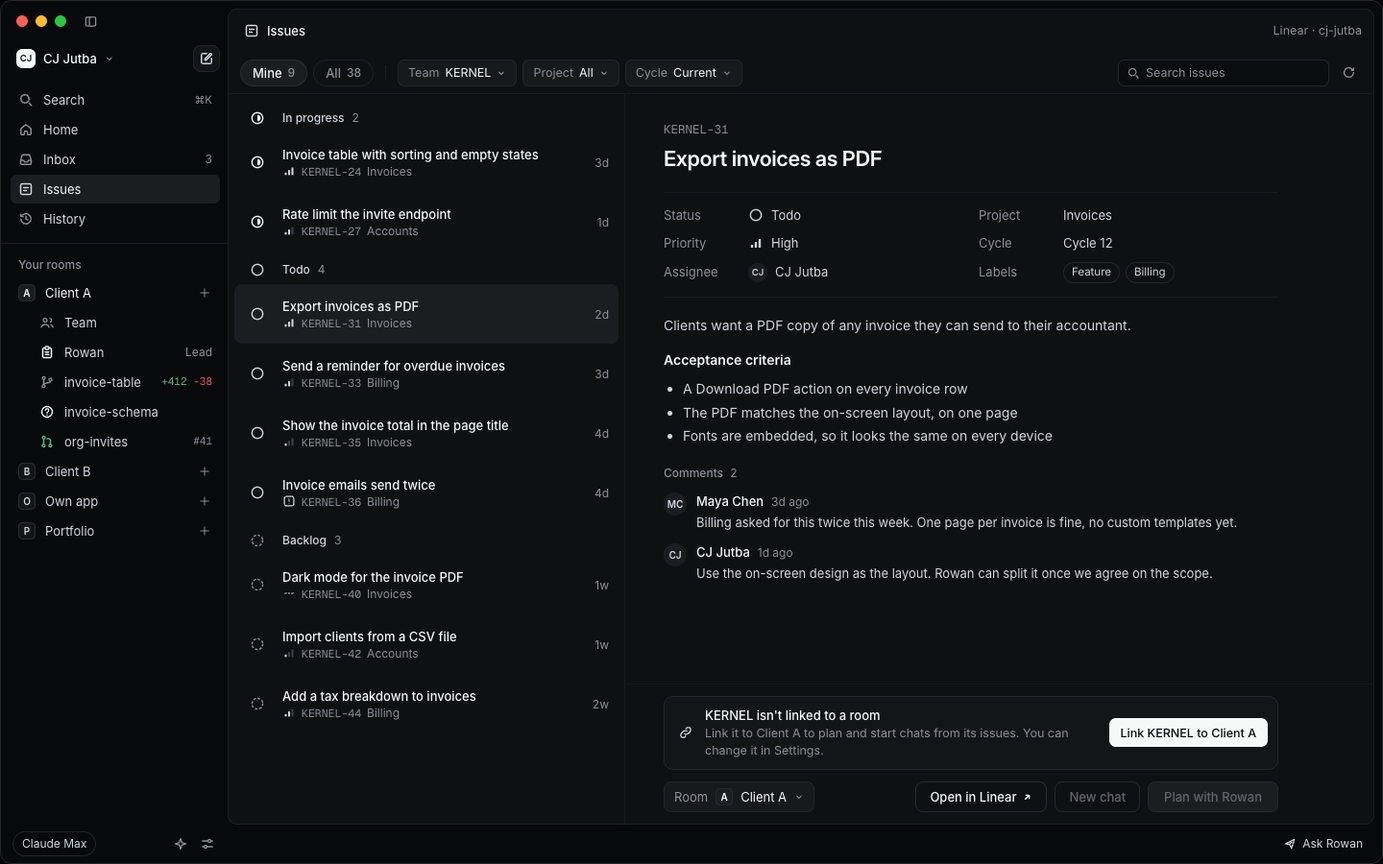
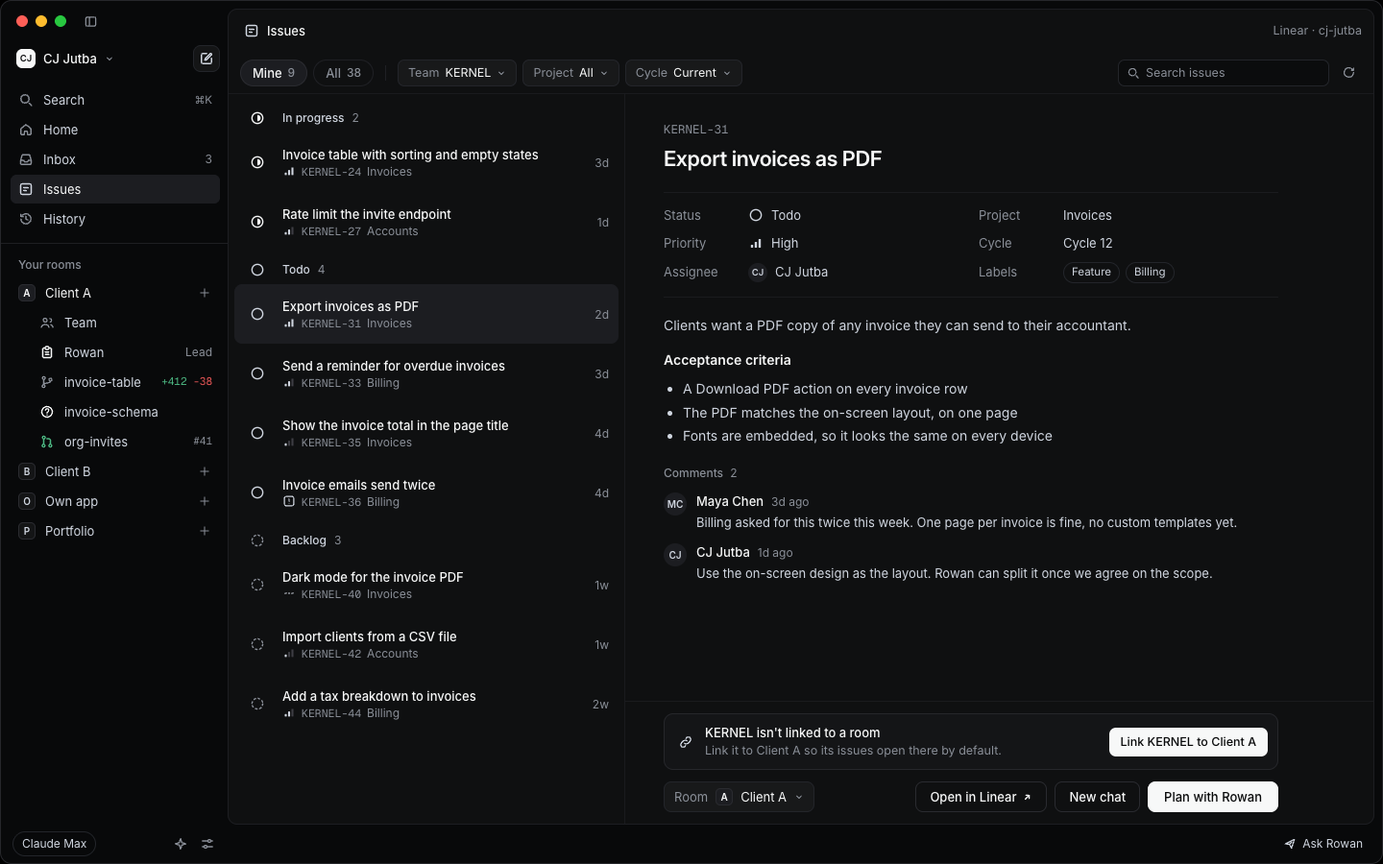
fix(design): keep Done and Canceled out of the issue list, keep New chat and Plan enabled without a linked room (KERNEL-162)
The list only holds open issues, so IssuesWorking no longer draws Done and Canceled groups.
Linking a team only sets the default room, so IssuesNoRoom leaves both buttons enabled.

Changed region(s): [[0.7812, 0.8089, 0.9375, 0.9644], [0.4688, 0.8089, 0.75, 0.8711]]

diff --git a/design/canvas/project/Issues.dc.html b/design/canvas/project/Issues.dc.html
@@ -253,7 +253,7 @@ CJ Jutba
 <sc-if value="{{ noroom }}" hint-placeholder-val="{{ false }}">
 <div role="status" style="display: flex; align-items: center; gap: 12px; padding: 10px 10px 10px 14px; border-radius: 10px; border: 1px solid #26272b; background: #141517">
 <svg width="16" height="16" viewBox="0 0 16 16" aria-hidden="true" fill="none" stroke="#d0d6e0" stroke-width="1.4" stroke-linecap="round" stroke-linejoin="round" style="flex-shrink: 0"><path d="M6.8 9.2a2.6 2.6 0 0 0 3.7 0l2-2a2.6 2.6 0 0 0-3.7-3.7l-.7.7M9.2 6.8a2.6 2.6 0 0 0-3.7 0l-2 2a2.6 2.6 0 0 0 3.7 3.7l.7-.7"></path></svg>
-<span style="flex: 1; min-width: 0; display: flex; flex-direction: column"><span style="font-weight: 500">KERNEL isn't linked to a room</span><span style="font-size: 12.5px; color: #8a8f98">Link it to Client A to plan and start chats from its issues. You can change it in Settings.</span></span>
+<span style="flex: 1; min-width: 0; display: flex; flex-direction: column"><span style="font-weight: 500">KERNEL isn't linked to a room</span><span style="font-size: 12.5px; color: #8a8f98">Link it to Client A so its issues open there by default.</span></span>
 <button type="button" style="flex-shrink: 0; height: 30px; padding: 0 12px; border: 0; border-radius: 7px; background: #f7f8f8; color: #08090a; font-family: inherit; font-size: 12.5px; font-weight: 500; cursor: pointer">Link KERNEL to Client A</button>
 </div>
 </sc-if>
@@ -261,8 +261,8 @@ CJ Jutba
 <button type="button" aria-label="Room: Client A" style="display: inline-flex; align-items: center; gap: 8px; height: 32px; box-sizing: border-box; padding: 0 10px; border: 1px solid #23252a; border-radius: 8px; background: #18191a; color: #f7f8f8; font-family: inherit; font-size: 13px; cursor: pointer"><span style="color: #8a8f98">Room</span><span aria-hidden="true" style="width: 18px; height: 18px; box-sizing: border-box; display: inline-flex; align-items: center; justify-content: center; border-radius: 5px; border: 1px solid #2a2b30; background: #1c1d21; font-size: 10px; font-weight: 600">A</span>Client A<svg width="10" height="10" viewBox="0 0 10 10" aria-hidden="true" fill="none" stroke="#8a8f98" stroke-width="1.4" stroke-linecap="round" stroke-linejoin="round"><path d="M2.5 4 5 6.5 7.5 4"></path></svg></button>
 <span style="flex: 1"></span>
 <a href="https://linear.app/cj-jutba/issue/KERNEL-31" target="_blank" rel="noreferrer" style="display: inline-flex; align-items: center; gap: 6px; height: 32px; box-sizing: border-box; padding: 0 14px; border-radius: 8px; border: 1px solid #2a2b30; color: #f7f8f8; text-decoration: none; font-size: 13px; font-weight: 500">Open in Linear<svg width="11" height="11" viewBox="0 0 16 16" aria-hidden="true" fill="none" stroke="currentColor" stroke-width="1.8" stroke-linecap="round" stroke-linejoin="round"><path d="M5 11 11 5M6 5h5v5"></path></svg></a>
-<button type="button" aria-disabled="{{ noroom }}" style="height: 32px; padding: 0 14px; border: 1px solid {{ btn.border }}; border-radius: 8px; background: transparent; color: {{ btn.color }}; font-family: inherit; font-size: 13px; font-weight: 500; cursor: pointer">New chat</button>
-<button type="button" aria-disabled="{{ noroom }}" style="height: 32px; padding: 0 16px; border: 1px solid {{ btn.pBorder }}; border-radius: 8px; background: {{ btn.pBg }}; color: {{ btn.pColor }}; font-family: inherit; font-size: 13px; font-weight: 500; cursor: pointer">Plan with Rowan</button>
+<button type="button" style="height: 32px; padding: 0 14px; border: 1px solid #2a2b30; border-radius: 8px; background: transparent; color: #f7f8f8; font-family: inherit; font-size: 13px; font-weight: 500; cursor: pointer">New chat</button>
+<button type="button" style="height: 32px; padding: 0 16px; border: 1px solid #f7f8f8; border-radius: 8px; background: #f7f8f8; color: #08090a; font-family: inherit; font-size: 13px; font-weight: 500; cursor: pointer">Plan with Rowan</button>
 </div>
 </div>
 </div>
@@ -327,9 +327,7 @@ class Component extends DCLogic {
         group('triage', [row('KERNEL-46', 'Clients cannot reset their password', 'Accounts', 'triage', 'high', '3h', false)]),
         group('started', [row('KERNEL-24', 'Invoice table with sorting and empty states', 'Invoices', 'started', 'high', 'Kai · PR open', sel === 'KERNEL-24', true), row('KERNEL-27', 'Rate limit the invite endpoint', 'Accounts', 'started', 'medium', 'Noor · Working', false, true)]),
         group('todo', [row('KERNEL-31', 'Export invoices as PDF', 'Invoices', 'todo', 'high', '2d', false), row('KERNEL-36', 'Invoice emails send twice', 'Billing', 'todo', 'urgent', '4d', false)]),
-        group('backlog', [row('KERNEL-40', 'Dark mode for the invoice PDF', 'Invoices', 'backlog', 'none', '1w', false)]),
-        group('done', [row('KERNEL-19', 'Seed demo clients and invoices', 'Invoices', 'done', 'low', '2d', false)]),
-        group('canceled', [row('KERNEL-21', 'Support tax IDs on invoices', 'Billing', 'canceled', 'low', '1w', false)])
+        group('backlog', [row('KERNEL-40', 'Dark mode for the invoice PDF', 'Invoices', 'backlog', 'none', '1w', false)])
       ];
     } else {
       groups = [
@@ -374,7 +372,6 @@ class Component extends DCLogic {
       var on = t.pressed === 'true';
       return { label: t.label, count: t.count, pressed: t.pressed, bg: on ? '#1c1d21' : 'transparent', border: on ? '#2a2b30' : '#1f2024', color: on ? '#f7f8f8' : '#8a8f98' };
     });
-    var disabled = mode === 'noroom';
     return {
       connected: mode !== 'connect',
       showFilters: mode !== 'connect' && mode !== 'error',
@@ -383,11 +380,7 @@ class Component extends DCLogic {
       tabs: tabs,
       filters: [{ label: 'Team', value: 'KERNEL' }, { label: 'Project', value: mode === 'empty' ? 'Billing' : 'All' }, { label: 'Cycle', value: 'Current' }],
       q: mode === 'empty' ? 'webhook' : '',
-      groups: groups, d: D[sel], linked: linked,
-      btn: {
-        border: disabled ? '#26272b' : '#2a2b30', color: disabled ? '#62666d' : '#f7f8f8',
-        pBorder: disabled ? '#26272b' : '#f7f8f8', pBg: disabled ? '#1c1d21' : '#f7f8f8', pColor: disabled ? '#62666d' : '#08090a'
-      }
+      groups: groups, d: D[sel], linked: linked
     };
   }
 }

diff --git a/design/canvas/project/IssuesConnect.dc.html b/design/canvas/project/IssuesConnect.dc.html
@@ -253,7 +253,7 @@ CJ Jutba
 <sc-if value="{{ noroom }}" hint-placeholder-val="{{ false }}">
 <div role="status" style="display: flex; align-items: center; gap: 12px; padding: 10px 10px 10px 14px; border-radius: 10px; border: 1px solid #26272b; background: #141517">
 <svg width="16" height="16" viewBox="0 0 16 16" aria-hidden="true" fill="none" stroke="#d0d6e0" stroke-width="1.4" stroke-linecap="round" stroke-linejoin="round" style="flex-shrink: 0"><path d="M6.8 9.2a2.6 2.6 0 0 0 3.7 0l2-2a2.6 2.6 0 0 0-3.7-3.7l-.7.7M9.2 6.8a2.6 2.6 0 0 0-3.7 0l-2 2a2.6 2.6 0 0 0 3.7 3.7l.7-.7"></path></svg>
-<span style="flex: 1; min-width: 0; display: flex; flex-direction: column"><span style="font-weight: 500">KERNEL isn't linked to a room</span><span style="font-size: 12.5px; color: #8a8f98">Link it to Client A to plan and start chats from its issues. You can change it in Settings.</span></span>
+<span style="flex: 1; min-width: 0; display: flex; flex-direction: column"><span style="font-weight: 500">KERNEL isn't linked to a room</span><span style="font-size: 12.5px; color: #8a8f98">Link it to Client A so its issues open there by default.</span></span>
 <button type="button" style="flex-shrink: 0; height: 30px; padding: 0 12px; border: 0; border-radius: 7px; background: #f7f8f8; color: #08090a; font-family: inherit; font-size: 12.5px; font-weight: 500; cursor: pointer">Link KERNEL to Client A</button>
 </div>
 </sc-if>
@@ -261,8 +261,8 @@ CJ Jutba
 <button type="button" aria-label="Room: Client A" style="display: inline-flex; align-items: center; gap: 8px; height: 32px; box-sizing: border-box; padding: 0 10px; border: 1px solid #23252a; border-radius: 8px; background: #18191a; color: #f7f8f8; font-family: inherit; font-size: 13px; cursor: pointer"><span style="color: #8a8f98">Room</span><span aria-hidden="true" style="width: 18px; height: 18px; box-sizing: border-box; display: inline-flex; align-items: center; justify-content: center; border-radius: 5px; border: 1px solid #2a2b30; background: #1c1d21; font-size: 10px; font-weight: 600">A</span>Client A<svg width="10" height="10" viewBox="0 0 10 10" aria-hidden="true" fill="none" stroke="#8a8f98" stroke-width="1.4" stroke-linecap="round" stroke-linejoin="round"><path d="M2.5 4 5 6.5 7.5 4"></path></svg></button>
 <span style="flex: 1"></span>
 <a href="https://linear.app/cj-jutba/issue/KERNEL-31" target="_blank" rel="noreferrer" style="display: inline-flex; align-items: center; gap: 6px; height: 32px; box-sizing: border-box; padding: 0 14px; border-radius: 8px; border: 1px solid #2a2b30; color: #f7f8f8; text-decoration: none; font-size: 13px; font-weight: 500">Open in Linear<svg width="11" height="11" viewBox="0 0 16 16" aria-hidden="true" fill="none" stroke="currentColor" stroke-width="1.8" stroke-linecap="round" stroke-linejoin="round"><path d="M5 11 11 5M6 5h5v5"></path></svg></a>
-<button type="button" aria-disabled="{{ noroom }}" style="height: 32px; padding: 0 14px; border: 1px solid {{ btn.border }}; border-radius: 8px; background: transparent; color: {{ btn.color }}; font-family: inherit; font-size: 13px; font-weight: 500; cursor: pointer">New chat</button>
-<button type="button" aria-disabled="{{ noroom }}" style="height: 32px; padding: 0 16px; border: 1px solid {{ btn.pBorder }}; border-radius: 8px; background: {{ btn.pBg }}; color: {{ btn.pColor }}; font-family: inherit; font-size: 13px; font-weight: 500; cursor: pointer">Plan with Rowan</button>
+<button type="button" style="height: 32px; padding: 0 14px; border: 1px solid #2a2b30; border-radius: 8px; background: transparent; color: #f7f8f8; font-family: inherit; font-size: 13px; font-weight: 500; cursor: pointer">New chat</button>
+<button type="button" style="height: 32px; padding: 0 16px; border: 1px solid #f7f8f8; border-radius: 8px; background: #f7f8f8; color: #08090a; font-family: inherit; font-size: 13px; font-weight: 500; cursor: pointer">Plan with Rowan</button>
 </div>
 </div>
 </div>
@@ -327,9 +327,7 @@ class Component extends DCLogic {
         group('triage', [row('KERNEL-46', 'Clients cannot reset their password', 'Accounts', 'triage', 'high', '3h', false)]),
         group('started', [row('KERNEL-24', 'Invoice table with sorting and empty states', 'Invoices', 'started', 'high', 'Kai · PR open', sel === 'KERNEL-24', true), row('KERNEL-27', 'Rate limit the invite endpoint', 'Accounts', 'started', 'medium', 'Noor · Working', false, true)]),
         group('todo', [row('KERNEL-31', 'Export invoices as PDF', 'Invoices', 'todo', 'high', '2d', false), row('KERNEL-36', 'Invoice emails send twice', 'Billing', 'todo', 'urgent', '4d', false)]),
-        group('backlog', [row('KERNEL-40', 'Dark mode for the invoice PDF', 'Invoices', 'backlog', 'none', '1w', false)]),
-        group('done', [row('KERNEL-19', 'Seed demo clients and invoices', 'Invoices', 'done', 'low', '2d', false)]),
-        group('canceled', [row('KERNEL-21', 'Support tax IDs on invoices', 'Billing', 'canceled', 'low', '1w', false)])
+        group('backlog', [row('KERNEL-40', 'Dark mode for the invoice PDF', 'Invoices', 'backlog', 'none', '1w', false)])
       ];
     } else {
       groups = [
@@ -374,7 +372,6 @@ class Component extends DCLogic {
       var on = t.pressed === 'true';
       return { label: t.label, count: t.count, pressed: t.pressed, bg: on ? '#1c1d21' : 'transparent', border: on ? '#2a2b30' : '#1f2024', color: on ? '#f7f8f8' : '#8a8f98' };
     });
-    var disabled = mode === 'noroom';
     return {
       connected: mode !== 'connect',
       showFilters: mode !== 'connect' && mode !== 'error',
@@ -383,11 +380,7 @@ class Component extends DCLogic {
       tabs: tabs,
       filters: [{ label: 'Team', value: 'KERNEL' }, { label: 'Project', value: mode === 'empty' ? 'Billing' : 'All' }, { label: 'Cycle', value: 'Current' }],
       q: mode === 'empty' ? 'webhook' : '',
-      groups: groups, d: D[sel], linked: linked,
-      btn: {
-        border: disabled ? '#26272b' : '#2a2b30', color: disabled ? '#62666d' : '#f7f8f8',
-        pBorder: disabled ? '#26272b' : '#f7f8f8', pBg: disabled ? '#1c1d21' : '#f7f8f8', pColor: disabled ? '#62666d' : '#08090a'
-      }
+      groups: groups, d: D[sel], linked: linked
     };
   }
 }

diff --git a/design/canvas/project/IssuesEmpty.dc.html b/design/canvas/project/IssuesEmpty.dc.html
@@ -253,7 +253,7 @@ CJ Jutba
 <sc-if value="{{ noroom }}" hint-placeholder-val="{{ false }}">
 <div role="status" style="display: flex; align-items: center; gap: 12px; padding: 10px 10px 10px 14px; border-radius: 10px; border: 1px solid #26272b; background: #141517">
 <svg width="16" height="16" viewBox="0 0 16 16" aria-hidden="true" fill="none" stroke="#d0d6e0" stroke-width="1.4" stroke-linecap="round" stroke-linejoin="round" style="flex-shrink: 0"><path d="M6.8 9.2a2.6 2.6 0 0 0 3.7 0l2-2a2.6 2.6 0 0 0-3.7-3.7l-.7.7M9.2 6.8a2.6 2.6 0 0 0-3.7 0l-2 2a2.6 2.6 0 0 0 3.7 3.7l.7-.7"></path></svg>
-<span style="flex: 1; min-width: 0; display: flex; flex-direction: column"><span style="font-weight: 500">KERNEL isn't linked to a room</span><span style="font-size: 12.5px; color: #8a8f98">Link it to Client A to plan and start chats from its issues. You can change it in Settings.</span></span>
+<span style="flex: 1; min-width: 0; display: flex; flex-direction: column"><span style="font-weight: 500">KERNEL isn't linked to a room</span><span style="font-size: 12.5px; color: #8a8f98">Link it to Client A so its issues open there by default.</span></span>
 <button type="button" style="flex-shrink: 0; height: 30px; padding: 0 12px; border: 0; border-radius: 7px; background: #f7f8f8; color: #08090a; font-family: inherit; font-size: 12.5px; font-weight: 500; cursor: pointer">Link KERNEL to Client A</button>
 </div>
 </sc-if>
@@ -261,8 +261,8 @@ CJ Jutba
 <button type="button" aria-label="Room: Client A" style="display: inline-flex; align-items: center; gap: 8px; height: 32px; box-sizing: border-box; padding: 0 10px; border: 1px solid #23252a; border-radius: 8px; background: #18191a; color: #f7f8f8; font-family: inherit; font-size: 13px; cursor: pointer"><span style="color: #8a8f98">Room</span><span aria-hidden="true" style="width: 18px; height: 18px; box-sizing: border-box; display: inline-flex; align-items: center; justify-content: center; border-radius: 5px; border: 1px solid #2a2b30; background: #1c1d21; font-size: 10px; font-weight: 600">A</span>Client A<svg width="10" height="10" viewBox="0 0 10 10" aria-hidden="true" fill="none" stroke="#8a8f98" stroke-width="1.4" stroke-linecap="round" stroke-linejoin="round"><path d="M2.5 4 5 6.5 7.5 4"></path></svg></button>
 <span style="flex: 1"></span>
 <a href="https://linear.app/cj-jutba/issue/KERNEL-31" target="_blank" rel="noreferrer" style="display: inline-flex; align-items: center; gap: 6px; height: 32px; box-sizing: border-box; padding: 0 14px; border-radius: 8px; border: 1px solid #2a2b30; color: #f7f8f8; text-decoration: none; font-size: 13px; font-weight: 500">Open in Linear<svg width="11" height="11" viewBox="0 0 16 16" aria-hidden="true" fill="none" stroke="currentColor" stroke-width="1.8" stroke-linecap="round" stroke-linejoin="round"><path d="M5 11 11 5M6 5h5v5"></path></svg></a>
-<button type="button" aria-disabled="{{ noroom }}" style="height: 32px; padding: 0 14px; border: 1px solid {{ btn.border }}; border-radius: 8px; background: transparent; color: {{ btn.color }}; font-family: inherit; font-size: 13px; font-weight: 500; cursor: pointer">New chat</button>
-<button type="button" aria-disabled="{{ noroom }}" style="height: 32px; padding: 0 16px; border: 1px solid {{ btn.pBorder }}; border-radius: 8px; background: {{ btn.pBg }}; color: {{ btn.pColor }}; font-family: inherit; font-size: 13px; font-weight: 500; cursor: pointer">Plan with Rowan</button>
+<button type="button" style="height: 32px; padding: 0 14px; border: 1px solid #2a2b30; border-radius: 8px; background: transparent; color: #f7f8f8; font-family: inherit; font-size: 13px; font-weight: 500; cursor: pointer">New chat</button>
+<button type="button" style="height: 32px; padding: 0 16px; border: 1px solid #f7f8f8; border-radius: 8px; background: #f7f8f8; color: #08090a; font-family: inherit; font-size: 13px; font-weight: 500; cursor: pointer">Plan with Rowan</button>
 </div>
 </div>
 </div>
@@ -327,9 +327,7 @@ class Component extends DCLogic {
         group('triage', [row('KERNEL-46', 'Clients cannot reset their password', 'Accounts', 'triage', 'high', '3h', false)]),
         group('started', [row('KERNEL-24', 'Invoice table with sorting and empty states', 'Invoices', 'started', 'high', 'Kai · PR open', sel === 'KERNEL-24', true), row('KERNEL-27', 'Rate limit the invite endpoint', 'Accounts', 'started', 'medium', 'Noor · Working', false, true)]),
         group('todo', [row('KERNEL-31', 'Export invoices as PDF', 'Invoices', 'todo', 'high', '2d', false), row('KERNEL-36', 'Invoice emails send twice', 'Billing', 'todo', 'urgent', '4d', false)]),
-        group('backlog', [row('KERNEL-40', 'Dark mode for the invoice PDF', 'Invoices', 'backlog', 'none', '1w', false)]),
-        group('done', [row('KERNEL-19', 'Seed demo clients and invoices', 'Invoices', 'done', 'low', '2d', false)]),
-        group('canceled', [row('KERNEL-21', 'Support tax IDs on invoices', 'Billing', 'canceled', 'low', '1w', false)])
+        group('backlog', [row('KERNEL-40', 'Dark mode for the invoice PDF', 'Invoices', 'backlog', 'none', '1w', false)])
       ];
     } else {
       groups = [
@@ -374,7 +372,6 @@ class Component extends DCLogic {
       var on = t.pressed === 'true';
       return { label: t.label, count: t.count, pressed: t.pressed, bg: on ? '#1c1d21' : 'transparent', border: on ? '#2a2b30' : '#1f2024', color: on ? '#f7f8f8' : '#8a8f98' };
     });
-    var disabled = mode === 'noroom';
     return {
       connected: mode !== 'connect',
       showFilters: mode !== 'connect' && mode !== 'error',
@@ -383,11 +380,7 @@ class Component extends DCLogic {
       tabs: tabs,
       filters: [{ label: 'Team', value: 'KERNEL' }, { label: 'Project', value: mode === 'empty' ? 'Billing' : 'All' }, { label: 'Cycle', value: 'Current' }],
       q: mode === 'empty' ? 'webhook' : '',
-      groups: groups, d: D[sel], linked: linked,
-      btn: {
-        border: disabled ? '#26272b' : '#2a2b30', color: disabled ? '#62666d' : '#f7f8f8',
-        pBorder: disabled ? '#26272b' : '#f7f8f8', pBg: disabled ? '#1c1d21' : '#f7f8f8', pColor: disabled ? '#62666d' : '#08090a'
-      }
+      groups: groups, d: D[sel], linked: linked
     };
   }
 }

diff --git a/design/canvas/project/IssuesError.dc.html b/design/canvas/project/IssuesError.dc.html
@@ -253,7 +253,7 @@ CJ Jutba
 <sc-if value="{{ noroom }}" hint-placeholder-val="{{ false }}">
 <div role="status" style="display: flex; align-items: center; gap: 12px; padding: 10px 10px 10px 14px; border-radius: 10px; border: 1px solid #26272b; background: #141517">
 <svg width="16" height="16" viewBox="0 0 16 16" aria-hidden="true" fill="none" stroke="#d0d6e0" stroke-width="1.4" stroke-linecap="round" stroke-linejoin="round" style="flex-shrink: 0"><path d="M6.8 9.2a2.6 2.6 0 0 0 3.7 0l2-2a2.6 2.6 0 0 0-3.7-3.7l-.7.7M9.2 6.8a2.6 2.6 0 0 0-3.7 0l-2 2a2.6 2.6 0 0 0 3.7 3.7l.7-.7"></path></svg>
-<span style="flex: 1; min-width: 0; display: flex; flex-direction: column"><span style="font-weight: 500">KERNEL isn't linked to a room</span><span style="font-size: 12.5px; color: #8a8f98">Link it to Client A to plan and start chats from its issues. You can change it in Settings.</span></span>
+<span style="flex: 1; min-width: 0; display: flex; flex-direction: column"><span style="font-weight: 500">KERNEL isn't linked to a room</span><span style="font-size: 12.5px; color: #8a8f98">Link it to Client A so its issues open there by default.</span></span>
 <button type="button" style="flex-shrink: 0; height: 30px; padding: 0 12px; border: 0; border-radius: 7px; background: #f7f8f8; color: #08090a; font-family: inherit; font-size: 12.5px; font-weight: 500; cursor: pointer">Link KERNEL to Client A</button>
 </div>
 </sc-if>
@@ -261,8 +261,8 @@ CJ Jutba
 <button type="button" aria-label="Room: Client A" style="display: inline-flex; align-items: center; gap: 8px; height: 32px; box-sizing: border-box; padding: 0 10px; border: 1px solid #23252a; border-radius: 8px; background: #18191a; color: #f7f8f8; font-family: inherit; font-size: 13px; cursor: pointer"><span style="color: #8a8f98">Room</span><span aria-hidden="true" style="width: 18px; height: 18px; box-sizing: border-box; display: inline-flex; align-items: center; justify-content: center; border-radius: 5px; border: 1px solid #2a2b30; background: #1c1d21; font-size: 10px; font-weight: 600">A</span>Client A<svg width="10" height="10" viewBox="0 0 10 10" aria-hidden="true" fill="none" stroke="#8a8f98" stroke-width="1.4" stroke-linecap="round" stroke-linejoin="round"><path d="M2.5 4 5 6.5 7.5 4"></path></svg></button>
 <span style="flex: 1"></span>
 <a href="https://linear.app/cj-jutba/issue/KERNEL-31" target="_blank" rel="noreferrer" style="display: inline-flex; align-items: center; gap: 6px; height: 32px; box-sizing: border-box; padding: 0 14px; border-radius: 8px; border: 1px solid #2a2b30; color: #f7f8f8; text-decoration: none; font-size: 13px; font-weight: 500">Open in Linear<svg width="11" height="11" viewBox="0 0 16 16" aria-hidden="true" fill="none" stroke="currentColor" stroke-width="1.8" stroke-linecap="round" stroke-linejoin="round"><path d="M5 11 11 5M6 5h5v5"></path></svg></a>
-<button type="button" aria-disabled="{{ noroom }}" style="height: 32px; padding: 0 14px; border: 1px solid {{ btn.border }}; border-radius: 8px; background: transparent; color: {{ btn.color }}; font-family: inherit; font-size: 13px; font-weight: 500; cursor: pointer">New chat</button>
-<button type="button" aria-disabled="{{ noroom }}" style="height: 32px; padding: 0 16px; border: 1px solid {{ btn.pBorder }}; border-radius: 8px; background: {{ btn.pBg }}; color: {{ btn.pColor }}; font-family: inherit; font-size: 13px; font-weight: 500; cursor: pointer">Plan with Rowan</button>
+<button type="button" style="height: 32px; padding: 0 14px; border: 1px solid #2a2b30; border-radius: 8px; background: transparent; color: #f7f8f8; font-family: inherit; font-size: 13px; font-weight: 500; cursor: pointer">New chat</button>
+<button type="button" style="height: 32px; padding: 0 16px; border: 1px solid #f7f8f8; border-radius: 8px; background: #f7f8f8; color: #08090a; font-family: inherit; font-size: 13px; font-weight: 500; cursor: pointer">Plan with Rowan</button>
 </div>
 </div>
 </div>
@@ -327,9 +327,7 @@ class Component extends DCLogic {
         group('triage', [row('KERNEL-46', 'Clients cannot reset their password', 'Accounts', 'triage', 'high', '3h', false)]),
         group('started', [row('KERNEL-24', 'Invoice table with sorting and empty states', 'Invoices', 'started', 'high', 'Kai · PR open', sel === 'KERNEL-24', true), row('KERNEL-27', 'Rate limit the invite endpoint', 'Accounts', 'started', 'medium', 'Noor · Working', false, true)]),
         group('todo', [row('KERNEL-31', 'Export invoices as PDF', 'Invoices', 'todo', 'high', '2d', false), row('KERNEL-36', 'Invoice emails send twice', 'Billing', 'todo', 'urgent', '4d', false)]),
-        group('backlog', [row('KERNEL-40', 'Dark mode for the invoice PDF', 'Invoices', 'backlog', 'none', '1w', false)]),
-        group('done', [row('KERNEL-19', 'Seed demo clients and invoices', 'Invoices', 'done', 'low', '2d', false)]),
-        group('canceled', [row('KERNEL-21', 'Support tax IDs on invoices', 'Billing', 'canceled', 'low', '1w', false)])
+        group('backlog', [row('KERNEL-40', 'Dark mode for the invoice PDF', 'Invoices', 'backlog', 'none', '1w', false)])
       ];
     } else {
       groups = [
@@ -374,7 +372,6 @@ class Component extends DCLogic {
       var on = t.pressed === 'true';
       return { label: t.label, count: t.count, pressed: t.pressed, bg: on ? '#1c1d21' : 'transparent', border: on ? '#2a2b30' : '#1f2024', color: on ? '#f7f8f8' : '#8a8f98' };
     });
-    var disabled = mode === 'noroom';
     return {
       connected: mode !== 'connect',
       showFilters: mode !== 'connect' && mode !== 'error',
@@ -383,11 +380,7 @@ class Component extends DCLogic {
       tabs: tabs,
       filters: [{ label: 'Team', value: 'KERNEL' }, { label: 'Project', value: mode === 'empty' ? 'Billing' : 'All' }, { label: 'Cycle', value: 'Current' }],
       q: mode === 'empty' ? 'webhook' : '',
-      groups: groups, d: D[sel], linked: linked,
-      btn: {
-        border: disabled ? '#26272b' : '#2a2b30', color: disabled ? '#62666d' : '#f7f8f8',
-        pBorder: disabled ? '#26272b' : '#f7f8f8', pBg: disabled ? '#1c1d21' : '#f7f8f8', pColor: disabled ? '#62666d' : '#08090a'
-      }
+      groups: groups, d: D[sel], linked: linked
     };
   }
 }

diff --git a/design/canvas/project/IssuesNoRoom.dc.html b/design/canvas/project/IssuesNoRoom.dc.html
@@ -253,7 +253,7 @@ CJ Jutba
 <sc-if value="{{ noroom }}" hint-placeholder-val="{{ false }}">
 <div role="status" style="display: flex; align-items: center; gap: 12px; padding: 10px 10px 10px 14px; border-radius: 10px; border: 1px solid #26272b; background: #141517">
 <svg width="16" height="16" viewBox="0 0 16 16" aria-hidden="true" fill="none" stroke="#d0d6e0" stroke-width="1.4" stroke-linecap="round" stroke-linejoin="round" style="flex-shrink: 0"><path d="M6.8 9.2a2.6 2.6 0 0 0 3.7 0l2-2a2.6 2.6 0 0 0-3.7-3.7l-.7.7M9.2 6.8a2.6 2.6 0 0 0-3.7 0l-2 2a2.6 2.6 0 0 0 3.7 3.7l.7-.7"></path></svg>
-<span style="flex: 1; min-width: 0; display: flex; flex-direction: column"><span style="font-weight: 500">KERNEL isn't linked to a room</span><span style="font-size: 12.5px; color: #8a8f98">Link it to Client A to plan and start chats from its issues. You can change it in Settings.</span></span>
+<span style="flex: 1; min-width: 0; display: flex; flex-direction: column"><span style="font-weight: 500">KERNEL isn't linked to a room</span><span style="font-size: 12.5px; color: #8a8f98">Link it to Client A so its issues open there by default.</span></span>
 <button type="button" style="flex-shrink: 0; height: 30px; padding: 0 12px; border: 0; border-radius: 7px; background: #f7f8f8; color: #08090a; font-family: inherit; font-size: 12.5px; font-weight: 500; cursor: pointer">Link KERNEL to Client A</button>
 </div>
 </sc-if>
@@ -261,8 +261,8 @@ CJ Jutba
 <button type="button" aria-label="Room: Client A" style="display: inline-flex; align-items: center; gap: 8px; height: 32px; box-sizing: border-box; padding: 0 10px; border: 1px solid #23252a; border-radius: 8px; background: #18191a; color: #f7f8f8; font-family: inherit; font-size: 13px; cursor: pointer"><span style="color: #8a8f98">Room</span><span aria-hidden="true" style="width: 18px; height: 18px; box-sizing: border-box; display: inline-flex; align-items: center; justify-content: center; border-radius: 5px; border: 1px solid #2a2b30; background: #1c1d21; font-size: 10px; font-weight: 600">A</span>Client A<svg width="10" height="10" viewBox="0 0 10 10" aria-hidden="true" fill="none" stroke="#8a8f98" stroke-width="1.4" stroke-linecap="round" stroke-linejoin="round"><path d="M2.5 4 5 6.5 7.5 4"></path></svg></button>
 <span style="flex: 1"></span>
 <a href="https://linear.app/cj-jutba/issue/KERNEL-31" target="_blank" rel="noreferrer" style="display: inline-flex; align-items: center; gap: 6px; height: 32px; box-sizing: border-box; padding: 0 14px; border-radius: 8px; border: 1px solid #2a2b30; color: #f7f8f8; text-decoration: none; font-size: 13px; font-weight: 500">Open in Linear<svg width="11" height="11" viewBox="0 0 16 16" aria-hidden="true" fill="none" stroke="currentColor" stroke-width="1.8" stroke-linecap="round" stroke-linejoin="round"><path d="M5 11 11 5M6 5h5v5"></path></svg></a>
-<button type="button" aria-disabled="{{ noroom }}" style="height: 32px; padding: 0 14px; border: 1px solid {{ btn.border }}; border-radius: 8px; background: transparent; color: {{ btn.color }}; font-family: inherit; font-size: 13px; font-weight: 500; cursor: pointer">New chat</button>
-<button type="button" aria-disabled="{{ noroom }}" style="height: 32px; padding: 0 16px; border: 1px solid {{ btn.pBorder }}; border-radius: 8px; background: {{ btn.pBg }}; color: {{ btn.pColor }}; font-family: inherit; font-size: 13px; font-weight: 500; cursor: pointer">Plan with Rowan</button>
+<button type="button" style="height: 32px; padding: 0 14px; border: 1px solid #2a2b30; border-radius: 8px; background: transparent; color: #f7f8f8; font-family: inherit; font-size: 13px; font-weight: 500; cursor: pointer">New chat</button>
+<button type="button" style="height: 32px; padding: 0 16px; border: 1px solid #f7f8f8; border-radius: 8px; background: #f7f8f8; color: #08090a; font-family: inherit; font-size: 13px; font-weight: 500; cursor: pointer">Plan with Rowan</button>
 </div>
 </div>
 </div>
@@ -327,9 +327,7 @@ class Component extends DCLogic {
         group('triage', [row('KERNEL-46', 'Clients cannot reset their password', 'Accounts', 'triage', 'high', '3h', false)]),
         group('started', [row('KERNEL-24', 'Invoice table with sorting and empty states', 'Invoices', 'started', 'high', 'Kai · PR open', sel === 'KERNEL-24', true), row('KERNEL-27', 'Rate limit the invite endpoint', 'Accounts', 'started', 'medium', 'Noor · Working', false, true)]),
         group('todo', [row('KERNEL-31', 'Export invoices as PDF', 'Invoices', 'todo', 'high', '2d', false), row('KERNEL-36', 'Invoice emails send twice', 'Billing', 'todo', 'urgent', '4d', false)]),
-        group('backlog', [row('KERNEL-40', 'Dark mode for the invoice PDF', 'Invoices', 'backlog', 'none', '1w', false)]),
-        group('done', [row('KERNEL-19', 'Seed demo clients and invoices', 'Invoices', 'done', 'low', '2d', false)]),
-        group('canceled', [row('KERNEL-21', 'Support tax IDs on invoices', 'Billing', 'canceled', 'low', '1w', false)])
+        group('backlog', [row('KERNEL-40', 'Dark mode for the invoice PDF', 'Invoices', 'backlog', 'none', '1w', false)])
       ];
     } else {
       groups = [
@@ -374,7 +372,6 @@ class Component extends DCLogic {
       var on = t.pressed === 'true';
       return { label: t.label, count: t.count, pressed: t.pressed, bg: on ? '#1c1d21' : 'transparent', border: on ? '#2a2b30' : '#1f2024', color: on ? '#f7f8f8' : '#8a8f98' };
     });
-    var disabled = mode === 'noroom';
     return {
       connected: mode !== 'connect',
       showFilters: mode !== 'connect' && mode !== 'error',
@@ -383,11 +380,7 @@ class Component extends DCLogic {
       tabs: tabs,
       filters: [{ label: 'Team', value: 'KERNEL' }, { label: 'Project', value: mode === 'empty' ? 'Billing' : 'All' }, { label: 'Cycle', value: 'Current' }],
       q: mode === 'empty' ? 'webhook' : '',
-      groups: groups, d: D[sel], linked: linked,
-      btn: {
-        border: disabled ? '#26272b' : '#2a2b30', color: disabled ? '#62666d' : '#f7f8f8',
-        pBorder: disabled ? '#26272b' : '#f7f8f8', pBg: disabled ? '#1c1d21' : '#f7f8f8', pColor: disabled ? '#62666d' : '#08090a'
-      }
+      groups: groups, d: D[sel], linked: linked
     };
   }
 }

diff --git a/design/canvas/project/IssuesWorking.dc.html b/design/canvas/project/IssuesWorking.dc.html
@@ -253,7 +253,7 @@ CJ Jutba
 <sc-if value="{{ noroom }}" hint-placeholder-val="{{ false }}">
 <div role="status" style="display: flex; align-items: center; gap: 12px; padding: 10px 10px 10px 14px; border-radius: 10px; border: 1px solid #26272b; background: #141517">
 <svg width="16" height="16" viewBox="0 0 16 16" aria-hidden="true" fill="none" stroke="#d0d6e0" stroke-width="1.4" stroke-linecap="round" stroke-linejoin="round" style="flex-shrink: 0"><path d="M6.8 9.2a2.6 2.6 0 0 0 3.7 0l2-2a2.6 2.6 0 0 0-3.7-3.7l-.7.7M9.2 6.8a2.6 2.6 0 0 0-3.7 0l-2 2a2.6 2.6 0 0 0 3.7 3.7l.7-.7"></path></svg>
-<span style="flex: 1; min-width: 0; display: flex; flex-direction: column"><span style="font-weight: 500">KERNEL isn't linked to a room</span><span style="font-size: 12.5px; color: #8a8f98">Link it to Client A to plan and start chats from its issues. You can change it in Settings.</span></span>
+<span style="flex: 1; min-width: 0; display: flex; flex-direction: column"><span style="font-weight: 500">KERNEL isn't linked to a room</span><span style="font-size: 12.5px; color: #8a8f98">Link it to Client A so its issues open there by default.</span></span>
 <button type="button" style="flex-shrink: 0; height: 30px; padding: 0 12px; border: 0; border-radius: 7px; background: #f7f8f8; color: #08090a; font-family: inherit; font-size: 12.5px; font-weight: 500; cursor: pointer">Link KERNEL to Client A</button>
 </div>
 </sc-if>
@@ -261,8 +261,8 @@ CJ Jutba
 <button type="button" aria-label="Room: Client A" style="display: inline-flex; align-items: center; gap: 8px; height: 32px; box-sizing: border-box; padding: 0 10px; border: 1px solid #23252a; border-radius: 8px; background: #18191a; color: #f7f8f8; font-family: inherit; font-size: 13px; cursor: pointer"><span style="color: #8a8f98">Room</span><span aria-hidden="true" style="width: 18px; height: 18px; box-sizing: border-box; display: inline-flex; align-items: center; justify-content: center; border-radius: 5px; border: 1px solid #2a2b30; background: #1c1d21; font-size: 10px; font-weight: 600">A</span>Client A<svg width="10" height="10" viewBox="0 0 10 10" aria-hidden="true" fill="none" stroke="#8a8f98" stroke-width="1.4" stroke-linecap="round" stroke-linejoin="round"><path d="M2.5 4 5 6.5 7.5 4"></path></svg></button>
 <span style="flex: 1"></span>
 <a href="https://linear.app/cj-jutba/issue/KERNEL-31" target="_blank" rel="noreferrer" style="display: inline-flex; align-items: center; gap: 6px; height: 32px; box-sizing: border-box; padding: 0 14px; border-radius: 8px; border: 1px solid #2a2b30; color: #f7f8f8; text-decoration: none; font-size: 13px; font-weight: 500">Open in Linear<svg width="11" height="11" viewBox="0 0 16 16" aria-hidden="true" fill="none" stroke="currentColor" stroke-width="1.8" stroke-linecap="round" stroke-linejoin="round"><path d="M5 11 11 5M6 5h5v5"></path></svg></a>
-<button type="button" aria-disabled="{{ noroom }}" style="height: 32px; padding: 0 14px; border: 1px solid {{ btn.border }}; border-radius: 8px; background: transparent; color: {{ btn.color }}; font-family: inherit; font-size: 13px; font-weight: 500; cursor: pointer">New chat</button>
-<button type="button" aria-disabled="{{ noroom }}" style="height: 32px; padding: 0 16px; border: 1px solid {{ btn.pBorder }}; border-radius: 8px; background: {{ btn.pBg }}; color: {{ btn.pColor }}; font-family: inherit; font-size: 13px; font-weight: 500; cursor: pointer">Plan with Rowan</button>
+<button type="button" style="height: 32px; padding: 0 14px; border: 1px solid #2a2b30; border-radius: 8px; background: transparent; color: #f7f8f8; font-family: inherit; font-size: 13px; font-weight: 500; cursor: pointer">New chat</button>
+<button type="button" style="height: 32px; padding: 0 16px; border: 1px solid #f7f8f8; border-radius: 8px; background: #f7f8f8; color: #08090a; font-family: inherit; font-size: 13px; font-weight: 500; cursor: pointer">Plan with Rowan</button>
 </div>
 </div>
 </div>
@@ -327,9 +327,7 @@ class Component extends DCLogic {
         group('triage', [row('KERNEL-46', 'Clients cannot reset their password', 'Accounts', 'triage', 'high', '3h', false)]),
         group('started', [row('KERNEL-24', 'Invoice table with sorting and empty states', 'Invoices', 'started', 'high', 'Kai · PR open', sel === 'KERNEL-24', true), row('KERNEL-27', 'Rate limit the invite endpoint', 'Accounts', 'started', 'medium', 'Noor · Working', false, true)]),
         group('todo', [row('KERNEL-31', 'Export invoices as PDF', 'Invoices', 'todo', 'high', '2d', false), row('KERNEL-36', 'Invoice emails send twice', 'Billing', 'todo', 'urgent', '4d', false)]),
-        group('backlog', [row('KERNEL-40', 'Dark mode for the invoice PDF', 'Invoices', 'backlog', 'none', '1w', false)]),
-        group('done', [row('KERNEL-19', 'Seed demo clients and invoices', 'Invoices', 'done', 'low', '2d', false)]),
-        group('canceled', [row('KERNEL-21', 'Support tax IDs on invoices', 'Billing', 'canceled', 'low', '1w', false)])
+        group('backlog', [row('KERNEL-40', 'Dark mode for the invoice PDF', 'Invoices', 'backlog', 'none', '1w', false)])
       ];
     } else {
       groups = [
@@ -374,7 +372,6 @@ class Component extends DCLogic {
       var on = t.pressed === 'true';
       return { label: t.label, count: t.count, pressed: t.pressed, bg: on ? '#1c1d21' : 'transparent', border: on ? '#2a2b30' : '#1f2024', color: on ? '#f7f8f8' : '#8a8f98' };
     });
-    var disabled = mode === 'noroom';
     return {
       connected: mode !== 'connect',
       showFilters: mode !== 'connect' && mode !== 'error',
@@ -383,11 +380,7 @@ class Component extends DCLogic {
       tabs: tabs,
       filters: [{ label: 'Team', value: 'KERNEL' }, { label: 'Project', value: mode === 'empty' ? 'Billing' : 'All' }, { label: 'Cycle', value: 'Current' }],
       q: mode === 'empty' ? 'webhook' : '',
-      groups: groups, d: D[sel], linked: linked,
-      btn: {
-        border: disabled ? '#26272b' : '#2a2b30', color: disabled ? '#62666d' : '#f7f8f8',
-        pBorder: disabled ? '#26272b' : '#f7f8f8', pBg: disabled ? '#1c1d21' : '#f7f8f8', pColor: disabled ? '#62666d' : '#08090a'
-      }
+      groups: groups, d: D[sel], linked: linked
     };
   }
 }

diff --git a/design/canvas/source/templates/Issues.dc.html b/design/canvas/source/templates/Issues.dc.html
@@ -144,7 +144,7 @@
 <sc-if value="{{ noroom }}" hint-placeholder-val="{{ false }}">
 <div role="status" style="display: flex; align-items: center; gap: 12px; padding: 10px 10px 10px 14px; border-radius: 10px; border: 1px solid #26272b; background: #141517">
 <svg width="16" height="16" viewBox="0 0 16 16" aria-hidden="true" fill="none" stroke="#d0d6e0" stroke-width="1.4" stroke-linecap="round" stroke-linejoin="round" style="flex-shrink: 0"><path d="M6.8 9.2a2.6 2.6 0 0 0 3.7 0l2-2a2.6 2.6 0 0 0-3.7-3.7l-.7.7M9.2 6.8a2.6 2.6 0 0 0-3.7 0l-2 2a2.6 2.6 0 0 0 3.7 3.7l.7-.7"></path></svg>
-<span style="flex: 1; min-width: 0; display: flex; flex-direction: column"><span style="font-weight: 500">KERNEL isn't linked to a room</span><span style="font-size: 12.5px; color: #8a8f98">Link it to Client A to plan and start chats from its issues. You can change it in Settings.</span></span>
+<span style="flex: 1; min-width: 0; display: flex; flex-direction: column"><span style="font-weight: 500">KERNEL isn't linked to a room</span><span style="font-size: 12.5px; color: #8a8f98">Link it to Client A so its issues open there by default.</span></span>
 <button type="button" style="flex-shrink: 0; height: 30px; padding: 0 12px; border: 0; border-radius: 7px; background: #f7f8f8; color: #08090a; font-family: inherit; font-size: 12.5px; font-weight: 500; cursor: pointer">Link KERNEL to Client A</button>
 </div>
 </sc-if>
@@ -152,8 +152,8 @@
 <button type="button" aria-label="Room: Client A" style="display: inline-flex; align-items: center; gap: 8px; height: 32px; box-sizing: border-box; padding: 0 10px; border: 1px solid #23252a; border-radius: 8px; background: #18191a; color: #f7f8f8; font-family: inherit; font-size: 13px; cursor: pointer"><span style="color: #8a8f98">Room</span><span aria-hidden="true" style="width: 18px; height: 18px; box-sizing: border-box; display: inline-flex; align-items: center; justify-content: center; border-radius: 5px; border: 1px solid #2a2b30; background: #1c1d21; font-size: 10px; font-weight: 600">A</span>Client A<svg width="10" height="10" viewBox="0 0 10 10" aria-hidden="true" fill="none" stroke="#8a8f98" stroke-width="1.4" stroke-linecap="round" stroke-linejoin="round"><path d="M2.5 4 5 6.5 7.5 4"></path></svg></button>
 <span style="flex: 1"></span>
 <a href="https://linear.app/cj-jutba/issue/KERNEL-31" target="_blank" rel="noreferrer" style="display: inline-flex; align-items: center; gap: 6px; height: 32px; box-sizing: border-box; padding: 0 14px; border-radius: 8px; border: 1px solid #2a2b30; color: #f7f8f8; text-decoration: none; font-size: 13px; font-weight: 500">Open in Linear<svg width="11" height="11" viewBox="0 0 16 16" aria-hidden="true" fill="none" stroke="currentColor" stroke-width="1.8" stroke-linecap="round" stroke-linejoin="round"><path d="M5 11 11 5M6 5h5v5"></path></svg></a>
-<button type="button" aria-disabled="{{ noroom }}" style="height: 32px; padding: 0 14px; border: 1px solid {{ btn.border }}; border-radius: 8px; background: transparent; color: {{ btn.color }}; font-family: inherit; font-size: 13px; font-weight: 500; cursor: pointer">New chat</button>
-<button type="button" aria-disabled="{{ noroom }}" style="height: 32px; padding: 0 16px; border: 1px solid {{ btn.pBorder }}; border-radius: 8px; background: {{ btn.pBg }}; color: {{ btn.pColor }}; font-family: inherit; font-size: 13px; font-weight: 500; cursor: pointer">Plan with Rowan</button>
+<button type="button" style="height: 32px; padding: 0 14px; border: 1px solid #2a2b30; border-radius: 8px; background: transparent; color: #f7f8f8; font-family: inherit; font-size: 13px; font-weight: 500; cursor: pointer">New chat</button>
+<button type="button" style="height: 32px; padding: 0 16px; border: 1px solid #f7f8f8; border-radius: 8px; background: #f7f8f8; color: #08090a; font-family: inherit; font-size: 13px; font-weight: 500; cursor: pointer">Plan with Rowan</button>
 </div>
 </div>
 </div>
@@ -206,9 +206,7 @@ class Component extends DCLogic {
         group('triage', [row('KERNEL-46', 'Clients cannot reset their password', 'Accounts', 'triage', 'high', '3h', false)]),
         group('started', [row('KERNEL-24', 'Invoice table with sorting and empty states', 'Invoices', 'started', 'high', 'Kai · PR open', sel === 'KERNEL-24', true), row('KERNEL-27', 'Rate limit the invite endpoint', 'Accounts', 'started', 'medium', 'Noor · Working', false, true)]),
         group('todo', [row('KERNEL-31', 'Export invoices as PDF', 'Invoices', 'todo', 'high', '2d', false), row('KERNEL-36', 'Invoice emails send twice', 'Billing', 'todo', 'urgent', '4d', false)]),
-        group('backlog', [row('KERNEL-40', 'Dark mode for the invoice PDF', 'Invoices', 'backlog', 'none', '1w', false)]),
-        group('done', [row('KERNEL-19', 'Seed demo clients and invoices', 'Invoices', 'done', 'low', '2d', false)]),
-        group('canceled', [row('KERNEL-21', 'Support tax IDs on invoices', 'Billing', 'canceled', 'low', '1w', false)])
+        group('backlog', [row('KERNEL-40', 'Dark mode for the invoice PDF', 'Invoices', 'backlog', 'none', '1w', false)])
       ];
     } else {
       groups = [
@@ -253,7 +251,6 @@ class Component extends DCLogic {
       var on = t.pressed === 'true';
       return { label: t.label, count: t.count, pressed: t.pressed, bg: on ? '#1c1d21' : 'transparent', border: on ? '#2a2b30' : '#1f2024', color: on ? '#f7f8f8' : '#8a8f98' };
     });
-    var disabled = mode === 'noroom';
     return {
       connected: mode !== 'connect',
       showFilters: mode !== 'connect' && mode !== 'error',
@@ -262,11 +259,7 @@ class Component extends DCLogic {
       tabs: tabs,
       filters: [{ label: 'Team', value: 'KERNEL' }, { label: 'Project', value: mode === 'empty' ? 'Billing' : 'All' }, { label: 'Cycle', value: 'Current' }],
       q: mode === 'empty' ? 'webhook' : '',
-      groups: groups, d: D[sel], linked: linked,
-      btn: {
-        border: disabled ? '#26272b' : '#2a2b30', color: disabled ? '#62666d' : '#f7f8f8',
-        pBorder: disabled ? '#26272b' : '#f7f8f8', pBg: disabled ? '#1c1d21' : '#f7f8f8', pColor: disabled ? '#62666d' : '#08090a'
-      }
+      groups: groups, d: D[sel], linked: linked
     };
   }
 }
